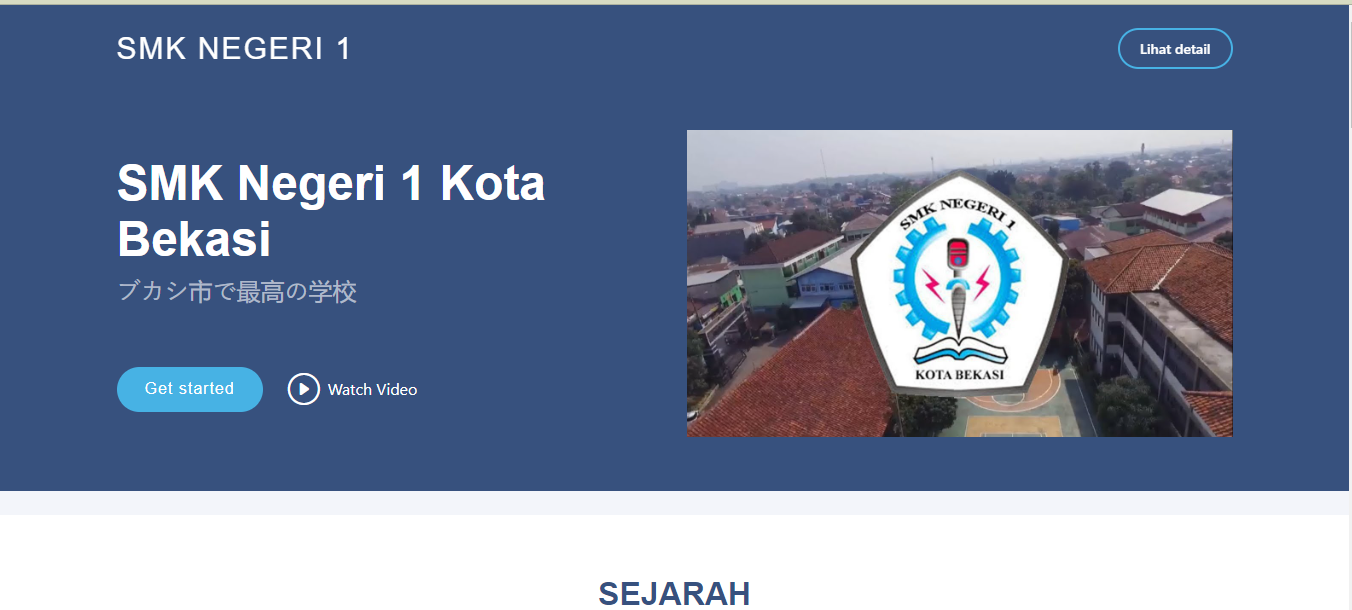
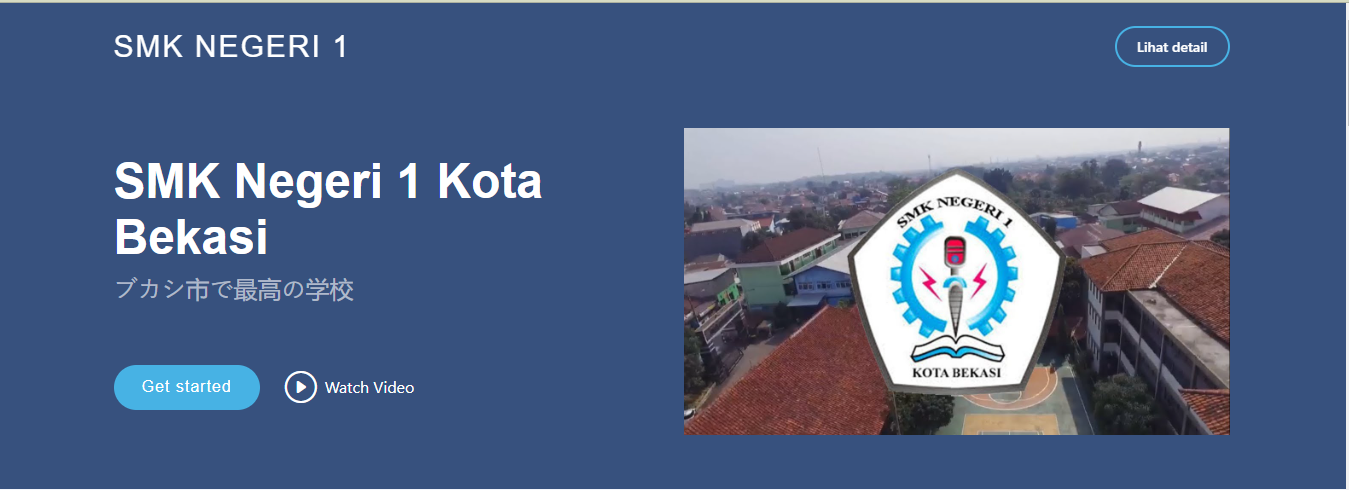
fix slider size

diff --git a/index.html b/index.html
@@ -74,12 +74,13 @@
     <article>
       <section class="project" id="slides">
         <h2 class="heading"><i class="fa-solid fa-briefcase"></i>MY<span>project</span></h2>
-        <div class="slider">
-          <img src="assets/image/landing page.PNG" alt="Gambar 1" class="img-slide">
-          <img src="assets/image/project ukom.PNG" alt="Gambar 2" class="img-slide">
+
+        <div class="box-picture">
+          <div class="slider">
+            <img src="assets/image/landing page.PNG" alt="Gambar 1" class="img-slider">
+            <img src="assets/image/project ukom.PNG" alt="Gambar 2" class="img-slide">
+          </div>
         </div>
-        <!-- <button class="prev" onclick="prevSlide()">Prev</button>
-        <button class="next" onclick="nextSlide()">Next</button> -->
       </section>
       
     </article>

diff --git a/css/style.css b/css/style.css
@@ -640,13 +640,13 @@ main aside .social-media li a:hover {
   }
 }
 
-.project {
+.project .box-picture{
   width: 100%;
-  height: 100vh;
+  height: 100%;
   overflow: hidden;
   position: relative;
   transition: 0.3s;
-  margin-top: 2rem;
+  
 }
 
 .slider {
@@ -661,17 +661,17 @@ main aside .social-media li a:hover {
   object-fit: cover;
 }
 
-.slider .img-slide{
-  height: 100%;
+.slider .img-slider{
+  object-fit: contain;
 }
 
 @media (max-width: 768px) {
-  .project {
-    height: 50vh;
-  }
-
   .slider img {
     height: 100%;
+  }
+
+  .slider .img-slider{
+    object-fit: contain;
   }
 }
 
@@ -682,5 +682,13 @@ main aside .social-media li a:hover {
 
   .heading {
     font-size: 1.5rem;
+  }
+
+  .slider .img-slider{
+    object-fit: contain;
+  }
+
+  .slider .img-slide{
+    height: 90%;
   }
 }

diff --git a/js/script.js b/js/script.js
@@ -10,12 +10,11 @@ document.addEventListener('DOMContentLoaded', function() {
     });
   }
 
-  const slides = document.querySelectorAll('.img-slide');
+  const slides = document.querySelectorAll('.img-slider, .img-slide');
   const slider = document.querySelector('.slider');
   let index = 0;
 
   function showSlide(i) {
-    const totalSlides = slides.length;
     const newTransformValue = -100 * i + '%';
     slider.style.transform = `translateX(${newTransformValue})`;
   }
